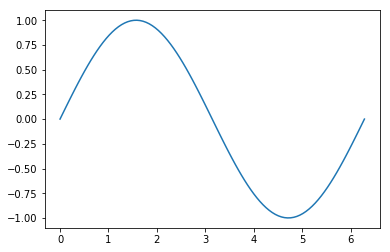
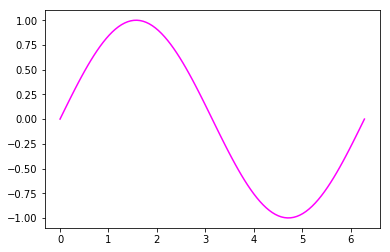
Add files via upload

diff --git a/pages/04_dag1_del3/plotting_les_fra_fil.md b/pages/04_dag1_del3/plotting_les_fra_fil.md
@@ -1,0 +1,203 @@
+
+# Plotting
+Hvis du fulgte ProFags installasjonsguide for Anaconda og Python, ble du bedt om å kjøre dette scriptet som gir et plot: 
+
+
+```python
+from pylab import *
+t = linspace(0, 3, 30)
+A = t**2
+plot(t, A)
+
+xlabel("tid")
+ylabel("amplitude")
+
+show()
+
+```
+
+
+    <matplotlib.figure.Figure at 0x548aeb8>
+
+
+Nå skal vi legge til et print-statement så du ser hva variabelen t faktisk inneholder
+
+
+```python
+print(t)
+```
+
+    [0.         0.10344828 0.20689655 0.31034483 0.4137931  0.51724138
+     0.62068966 0.72413793 0.82758621 0.93103448 1.03448276 1.13793103
+     1.24137931 1.34482759 1.44827586 1.55172414 1.65517241 1.75862069
+     1.86206897 1.96551724 2.06896552 2.17241379 2.27586207 2.37931034
+     2.48275862 2.5862069  2.68965517 2.79310345 2.89655172 3.        ]
+    
+
+**Oppgave** 
+
+Endre t fra 30 til 10 punkter. Beskriv hva det gjorde med plottet ditt. 
+
+### Didaktisk NB!
+Elevene er vant til x og y. Hvis vi kaller det x og y i programmet så er det kjent, men de venner seg ikke til å tenke «friere» - at man kan bytte om på første- og andreaksen eller kalle det noe helt annet. Det kan derfor være lurt å gi variablene logiske navn og ikke være for bundet av matematisk notasjon. 
+La oss prøve. Tenk f.eks. at du har data fra logging eller et eksperiment.
+
+
+```python
+tid = [1,2,3,4,5,6]     # Lager to lister, tid og posisjon
+posisjon = [1.0, 2.4, 1.3, 0.2, 0.5, 2.0]
+plot(tid,posisjon)      # Plotter tid på 1.aksen og posisjon på 2.aksen 
+plot(posisjon,tid)      # Plotter posisjon på 1.aksen og tid på 2.aksen
+```
+
+
+
+
+    [<matplotlib.lines.Line2D at 0x83a4240>]
+
+
+
+
+![png](output_5_1.png)
+
+
+Nå ser vi på hvordan vi kan endre på listen med tider. Tenk f.eks. at du egentlig målte hvert andre sekund. Vi prøver først med å ta 2*tid:
+
+
+```python
+nytid=2*tid
+print("Tid= ", tid)
+print("Nytid= ", nytid)
+```
+
+    Tid=  [1, 2, 3, 4, 5, 6]
+    Nytid=  [1, 2, 3, 4, 5, 6, 1, 2, 3, 4, 5, 6]
+    
+
+Du ser at dette ga en dobbelt så lang liste. Tanken var egentlig å lage denne listen: [2,4,6,8,10,12] 
+Da må vi konvertere fra liste til vektor (array) før vi ganger med 2. 
+
+### Programmerings NB! 
+*liste* og *array* er to forskjellige datatyper. Vi kan oversette *array* til matrise eller vektor. Fordi de matematiske regneoperasjonene vi skal gjøre med *arrays* likner på vektorregning har vi valgt å kalle det vektor. I ProFag skal vi for det meste bruke vektorer og unngå lister. 
+
+
+
+```python
+nytid=array(tid)	#konverterer fra liste til vektor
+nytid=2*nytid
+print(nytid)
+```
+
+    [ 2  4  6  8 10 12]
+    
+
+### Oppgaver
+1) I ditt første plott lagde du variabelen t ved hjelp av kommandoen *linspace*. Lager denne kommandoen en vektor eller en liste?
+
+2) Finn ut hvordan lage ulike vektorer ved hjelp av *zeros* og *ones*. Se f.eks. s. 80 i ProMod-boka. Hvis du vil bruke dette til å lage en vektor som er lik den som heter nytid i vårt program, trenger du kunnskap om løkker. Det kommer i neste økt, men vi gir en smakebit nedenfor. 
+
+3) Hva skjer om du bytter ut kommandoen plot med kommandoen scatter?
+
+4) Prøv deg med farger, linjestil og markeringer. Se eksempel under. 
+
+#### Eksempel på plot med farger, linjestil og markeringer
+
+
+```python
+plot(tid,posisjon, "-.", color="cyan", marker="s")
+```
+
+
+
+
+    [<matplotlib.lines.Line2D at 0x8860ba8>]
+
+
+
+
+![png](output_11_1.png)
+
+
+#### Eksempel på bruk av løkke for å fylle en vektor med tall vi ønsker
+
+
+```python
+mertid=zeros(6,int)    #lager en vektor med 6 nuller
+mertid[0]=2            #setter den første verdien til 2
+for i in range(1,6):   #går gjennom løkken seks ganger
+    mertid[i]=mertid[i-1]+2
+print(mertid)
+```
+
+    [ 2  4  6  8 10 12]
+    
+
+### Plot av sinusfunksjon
+Husk at for å plotte må vi har to vektorer av samme dimensjon. 
+For å plotte en sinusfunksjon trenger vi derfor å lage to vektorer. En som inneholder argumentene og en som inneholder funksjonsverdiene. Jo flere punkter vi velger i vektoren, desto glattere blir sinuskurven. 
+Her velger vi å plotte sinus for en hel periode. Da trenger vi matematikkbiblioteket både for pi og for sinus. 
+Les gjennom program linje for linje og forklar hva som blir gjort.
+
+
+```python
+from pylab import *
+x= linspace(0, 2*math.pi, 100)  #vektor går fra 0 til 2pi, med 100 steg i mellom
+sinus=sin(x)                    
+
+plot(x, sinus, c="magenta")
+```
+
+
+
+
+    [<matplotlib.lines.Line2D at 0x88c5ef0>]
+
+
+
+
+![png](output_15_1.png)
+
+
+### Didaktisk NB!
+Elever har ikke alltid et like bevisst forhold til om vinkler gis i grader eller radianer. Det kan derfor være nyttig å vite hvoran python konverterer mellom de to. Eller du kan  gi elevene i oppgave å lage en funksjon i python som gjør denne konverteringen. 
+Uansett hvilken tilnærming du velger i klassen: Her ser du hvordan du kan konvertere til radianer slik at den innebygde funksjonen *sin*  regner riktig når vinkelmålet blir gitt i grader. 
+
+
+
+```python
+from pylab import *
+
+a = sin(math.radians(30))
+print("Sinus av 30 grader =",a)
+
+```
+
+    Sinus av 30 grader = 0.49999999999999994
+    
+
+### Diskusjonsoppgaver
+1) Det går fint an å bruke svært mye tid på å pynte på plot. Hvordan styre dette i klassen?
+2) Hva er forskjellen på å plotte i Python og Geogebra? Diskuter fordeler og ulemper med å bruke disse programmene til plotting.
+
+### Fordypningsoppgaver (sommer-moro?)
+1) Lag en funksjon som plotter sinus. Funksjonen skal ta argumentene sinusplot(amplitude, k, faseforskyvning, likevektslinje, stil) 
+eller skal de heller få programmet og forklare det og lage tilsvarende, men med noen andre argumenter?
+
+2) bruk programmet fra oppgaven over og plot tre ulike sinusfunksjoner med ulik linjestil
+a - i samme vindu
+b - i tre vinduer som ligger ved siden av hverandre 
+
+hint: se ProMod boka avsnitt 5.2
+
+eller skal oppgaven være: 
+Her ser du output fra et program ... (viser tre plot i samme vindu og tre plot ved siden av hverandre). De er laget ved hjelp av å definere en funksjon som tar følgende argument...
+
+eller?
+
+# Lese fra fil
+Python-programmer har filekstenksjon .py
+Tekstfiler har filekstenskjon .txt
+Vi skal begynne med å lage en enkel .txt fil som vi leser fra. 
+Åpne Spyder og velg "lagre som tekstfil.txt"
+
+
